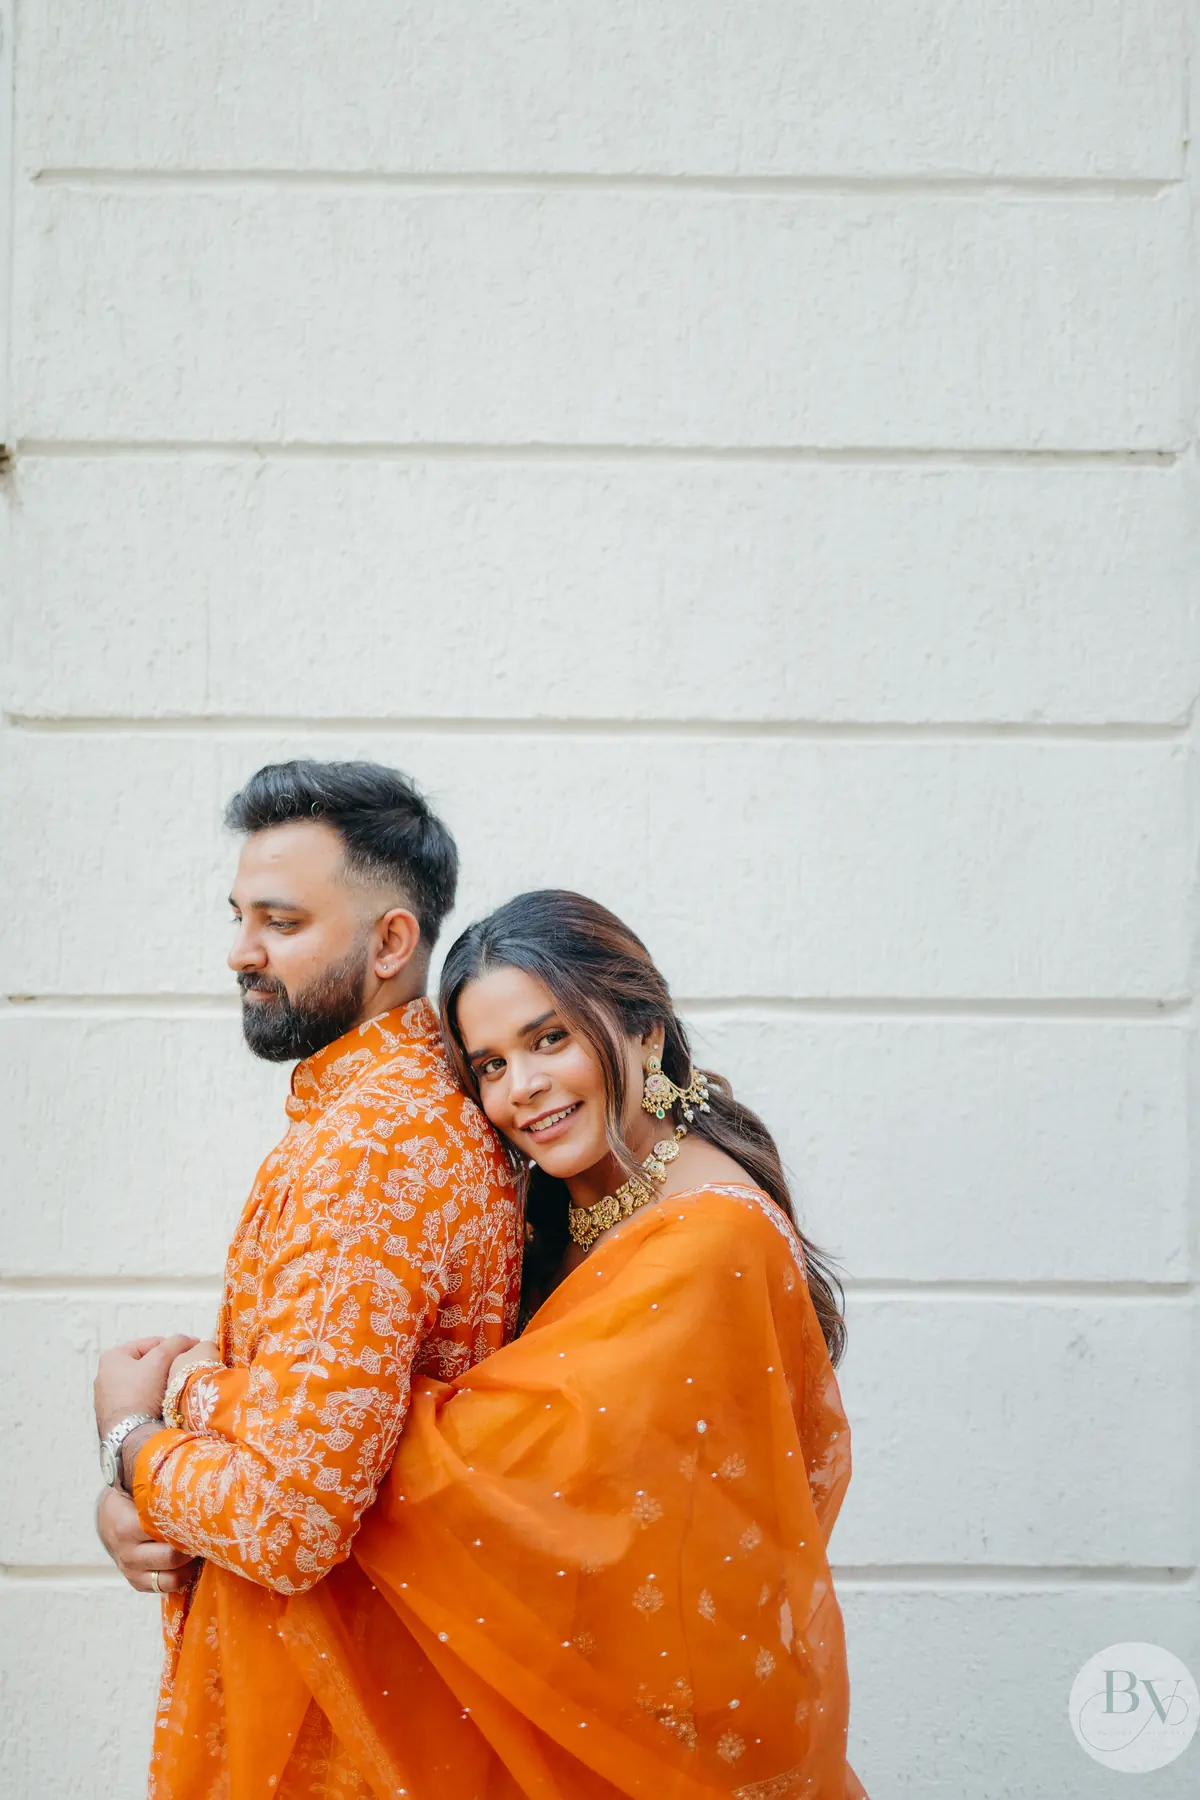
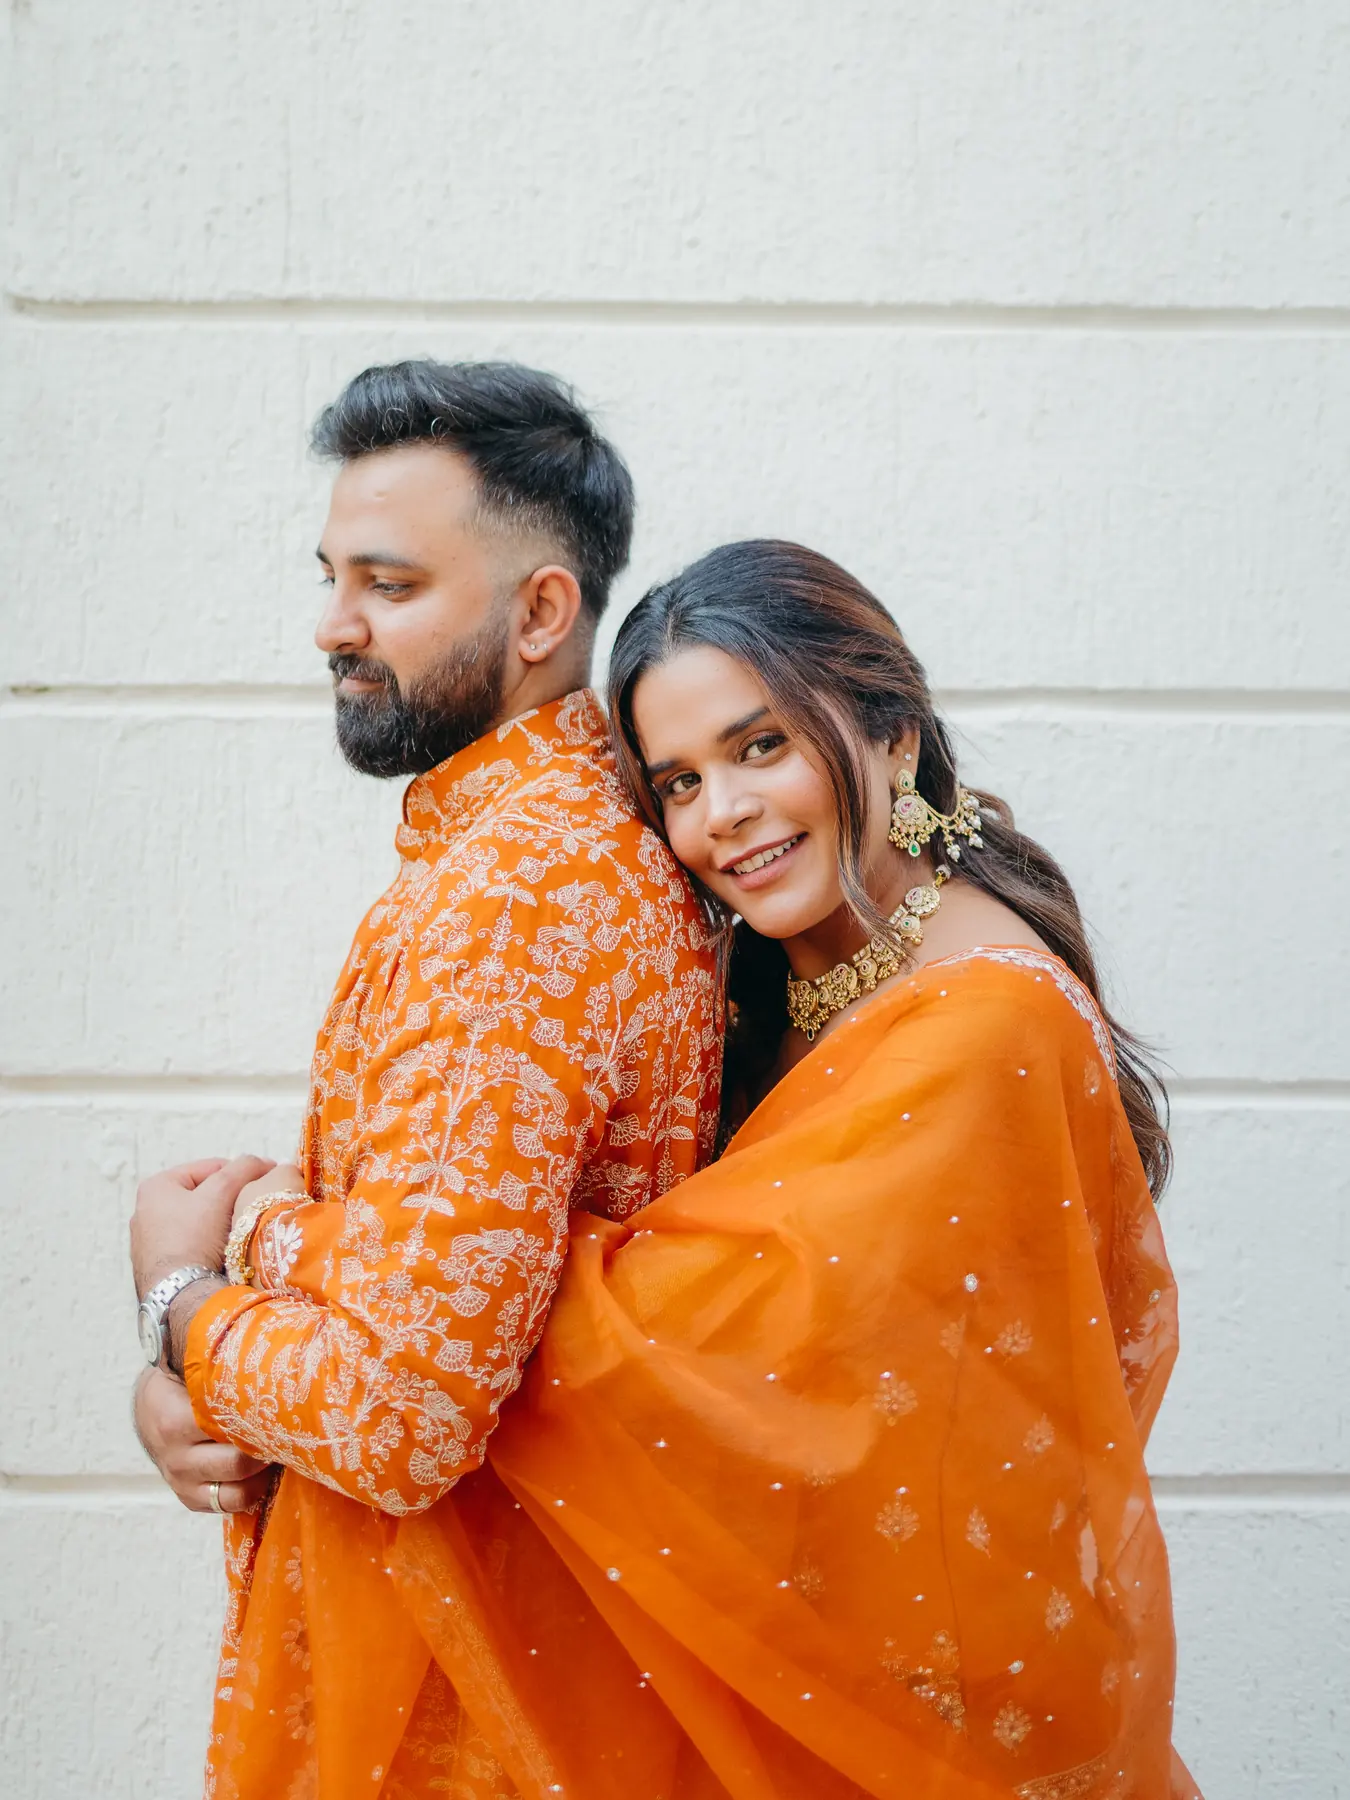
fix: recrop the Niki & Swapnesh homepage thumbnail
The source frame put the couple in the lower half against a lot of
bare wall. The story-card box (aspect-ratio 3/4) is close enough to
the source's own 2/3 that background-position:center barely cropped
it, so the card read as mostly wall with the couple crammed to the
bottom rather than centered on them.

Gave save_webp() in tools/build-real-galleries.py an optional crop
box and set one for this cover only (cover_crop, as source-relative
fractions) - tighter frame, couple actually centered in a 3/4 tile.
Regenerated just the cover, not the full 243-photo gallery.

Bumped all three real-gallery cover stamps to v=20260907h together
(only the query param moved, so cover-only, not the shared CSS/JS
stamp). 54/54 tests pass.

diff --git a/js/stories-data.js b/js/stories-data.js
@@ -29,7 +29,7 @@
       venue: "Mumbai",
       city: "India",
       type: "Photography coverage",
-      cover: "img/stories/shachi-vedant/cover.webp?v=20260907d",
+      cover: "img/stories/shachi-vedant/cover.webp?v=20260907h",
       heroSequence: [
         "img/stories/shachi-vedant/257.webp",
         "img/stories/shachi-vedant/264.webp",
@@ -70,7 +70,7 @@
       venue: "Hyderabad",
       city: "India",
       type: "Photography coverage",
-      cover: "img/stories/vedin-megha/cover.webp?v=20260907d",
+      cover: "img/stories/vedin-megha/cover.webp?v=20260907h",
       heroSequence: [
         "img/stories/vedin-megha/081.webp",
         "img/stories/vedin-megha/084.webp",
@@ -113,7 +113,7 @@
       venue: "Real wedding",
       city: "India",
       type: "Photography coverage",
-      cover: "img/stories/niki-swapnesh/cover.webp?v=20260907d",
+      cover: "img/stories/niki-swapnesh/cover.webp?v=20260907h",
       heroSequence: [
         "img/stories/niki-swapnesh/001.webp",
         "img/stories/niki-swapnesh/004.webp",

diff --git a/tools/build-real-galleries.py b/tools/build-real-galleries.py
@@ -29,6 +29,13 @@ GALLERIES = [
         "source": Path(r"D:\BlurryVisuals-Wedding-publish\img\for Wedding website\Niki Swapnesh"),
         "cover": "NnS Web-1.jpg",
         "cover_override": COVER_PHOTOS / "Haldi-60.jpg",
+        # The source frame is a back-to-back portrait with the couple pushed
+        # into the lower half and a wall filling the rest - fine full-size,
+        # but the story-card crop (aspect-ratio 3/4, background-position
+        # center) barely trims that, so the couple read as bottom-heavy on
+        # the homepage tile. Crop tighter first so "center" lands on them.
+        # Box is (left, top, right, bottom) as fractions of the source.
+        "cover_crop": (0, 0.2778, 0.8125, 1.0),
     },
 ]
 
@@ -38,10 +45,14 @@ def natural_key(path):
     return [int(part) if part.isdigit() else part.lower() for part in parts]
 
 
-def save_webp(source, destination):
+def save_webp(source, destination, crop=None):
     destination.parent.mkdir(parents=True, exist_ok=True)
     with Image.open(source) as image:
         image = ImageOps.exif_transpose(image).convert("RGB")
+        if crop:
+            left, top, right, bottom = crop
+            w, h = image.size
+            image = image.crop((round(left * w), round(top * h), round(right * w), round(bottom * h)))
         longest = max(image.size)
         if longest > MAX_EDGE:
             scale = MAX_EDGE / longest
@@ -71,7 +82,7 @@ def build_gallery(config):
         cover_source = source_dir / config["cover"]
     if not cover_source.exists():
         cover_source = files[0]
-    save_webp(cover_source, output_dir / "cover.webp")
+    save_webp(cover_source, output_dir / "cover.webp", crop=config.get("cover_crop"))
 
     return config["slug"], len(files), cover_source
 
